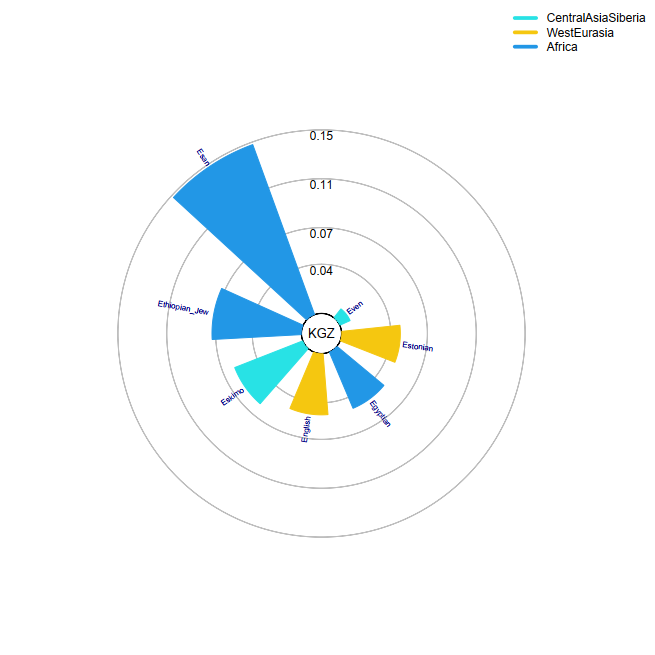
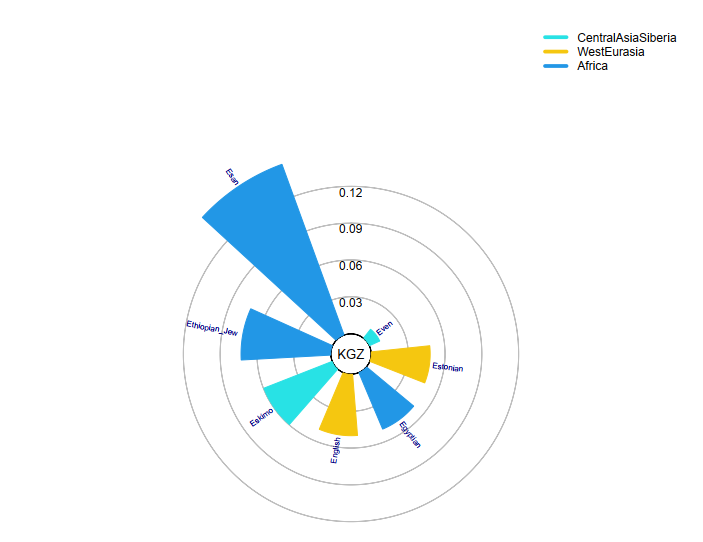
Updated README.md.

diff --git a/README.md b/README.md
@@ -23,8 +23,7 @@ exp_cols <- read.table('./inst/extdata/exp_ances.8.color', header = F)
 
 # Graphing
 pdf("exp_ances.8.pdf", width = 45, height = 45)
-  sectorplot(Q = exp_q, ind = exp_ind, target = c("Yoruba", "French", "Han"), 
-             poporder = exp_order$V1, popgroup = exp_order$V2, ancescols = exp_cols)
+  sectorplot(Q = exp_q, ind = exp_ind, target = c("Yoruba", "French", "Han"), poporder = exp_order$V1, popgroup = exp_order$V2, ancescols = exp_cols,tar_ang1 = 90, tar_ang2 = 450)
 dev.off()
 ```
 ![](inst/figures/exp_ances.8.png)<!-- -->
@@ -36,9 +35,10 @@ dev.off()
 exp_fst.locl <- read.table("./inst/extdata/exp_fst.local.txt", header = F)
 
 # Graphing
-pdf("exp_fst.local.8.pdf", width = 45, height = 45)
-  radiationplot(data = exp_fst.local, target = "target", 
+pdf("exp_fst.local.8.pdf", width = 10, height = 10)
+  radiationplot(data = exp_fst.local, target = "KGZ", 
                 legend_mode = T, sorting = T, layers = c(0.03, 0.06, 0.09, 0.12))
 dev.off()
 ```
+![](inst/figures/exp_fst.local.png)<!-- -->
 
